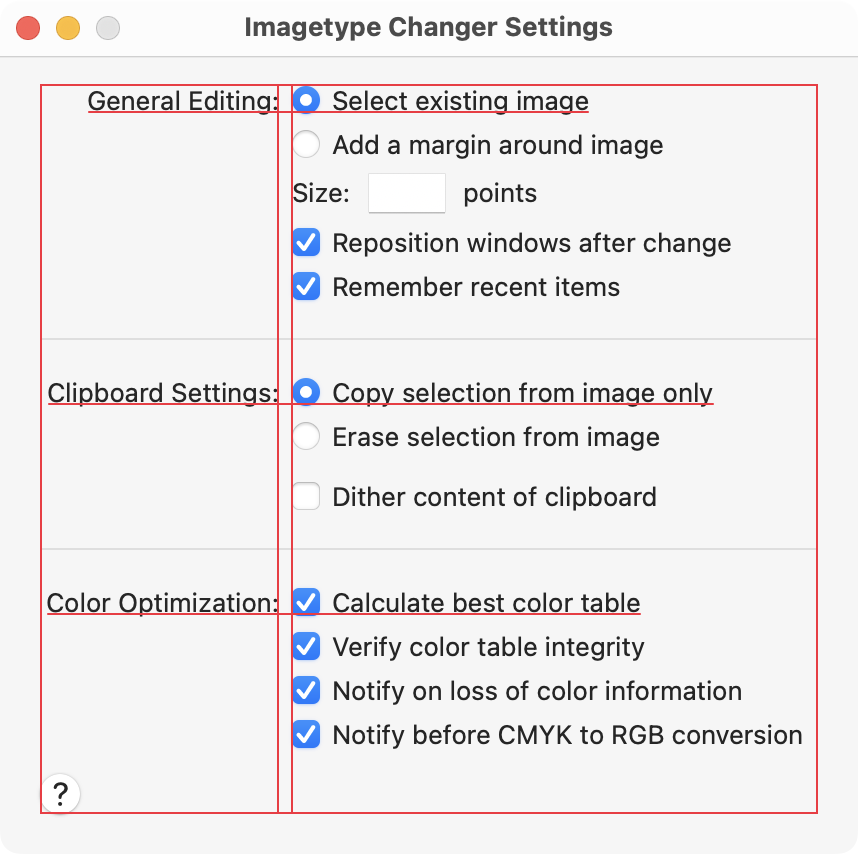
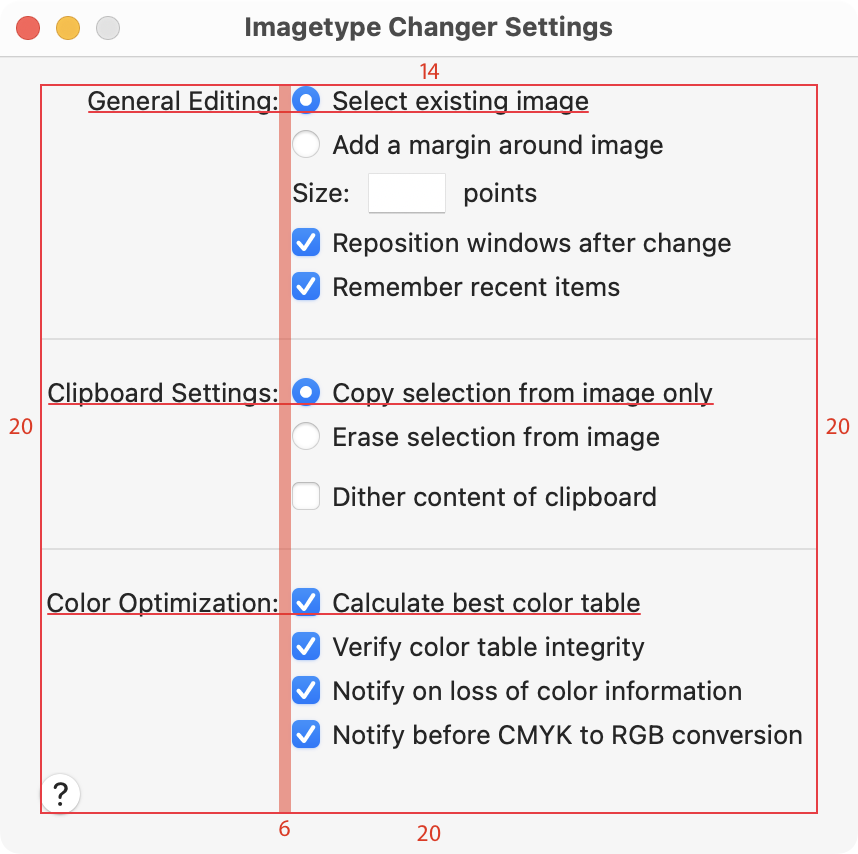
Adding interspacing metrics for simple layout

diff --git a/hig/mac/layouts/index.html b/hig/mac/layouts/index.html
@@ -125,16 +125,25 @@
 						<li>The section text labels are right-aligned and their stacked controls are left-aligned.</li>
 						<li>Controls not in a group box or a tab view should be 14 points from the titlebar or toolbar.</li>
 						<li>There should be a 20 point margin all along the left, right, and bottom sides.</li>
-						<li>Leave 8 points between the colons of the section labels and the stacked controls they represent.</li>
+						<li>Leave 6 points between the colons of the section labels and the stacked controls they represent.</li>
 						<li>If you include a Help button, it should always be placed on the left bottom corner.</li>
 					</ul>
 					
 					<p><b>Spacing between individual controls</b></p>
 					<ul>
-						<li>For regular size controls, leave 8 points of space between controls.</li>
-						<li>Leave at least 12 points of space above and below separators.</li>
-						<li>Leave at least 18 points of space between the bottom group of controls and the buttons (This would include buttons like a Help button shown above or push buttons like OK and Cancel).</li>
+						<li>Stacked, Regular-sized controls have at least 6 points of spacing between them.</li>
+						<li>Add an additional 12 points of space above and below separators (In addition to the 6 points mentioned).</li>
+						<li>For additional separation of controls within a group, add an additional 8 points (In addition to the 6 points mentioned). For example, maybe you want to have a checkbox below a Radio Button group. Adding additional spacing between the Checkbox button and the Radio Button Group visually separates them.</li>
+						<li>Leave 12 points of space between the bottom group of controls and the buttons (This would include buttons like a Help button shown above or push buttons like OK and Cancel).</li>
 					</ul>
+						 
+					<img srcset="images/simplesettingsspacing.png, 
+								 images/simplesettingsspacing.png 2x" 
+						 src="images/simplesettingsspacing.png"
+						 style="max-width: 100%;
+						 		padding-top: 10px; 
+						 		padding-bottom: 20px;" 
+						 alt="" >
 					
 					<p><b>Additional considerations</b></p>
 					<ul>
